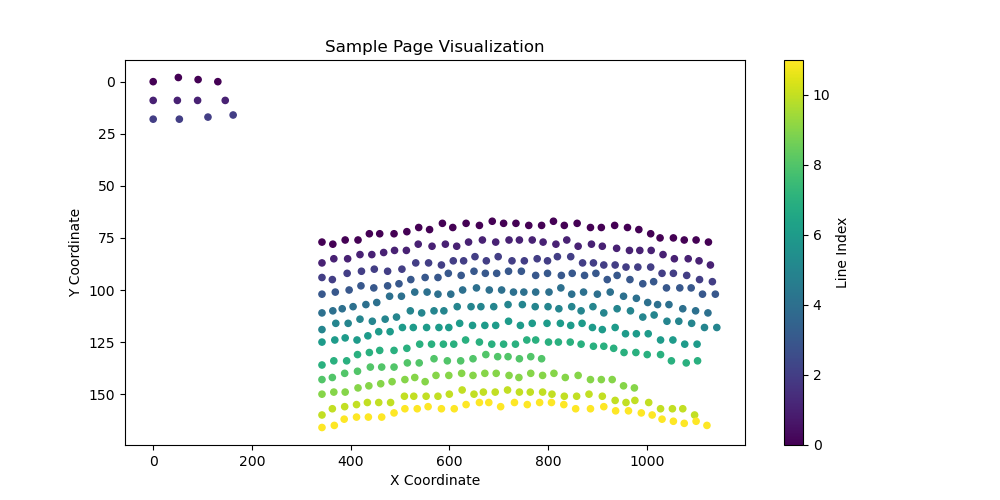
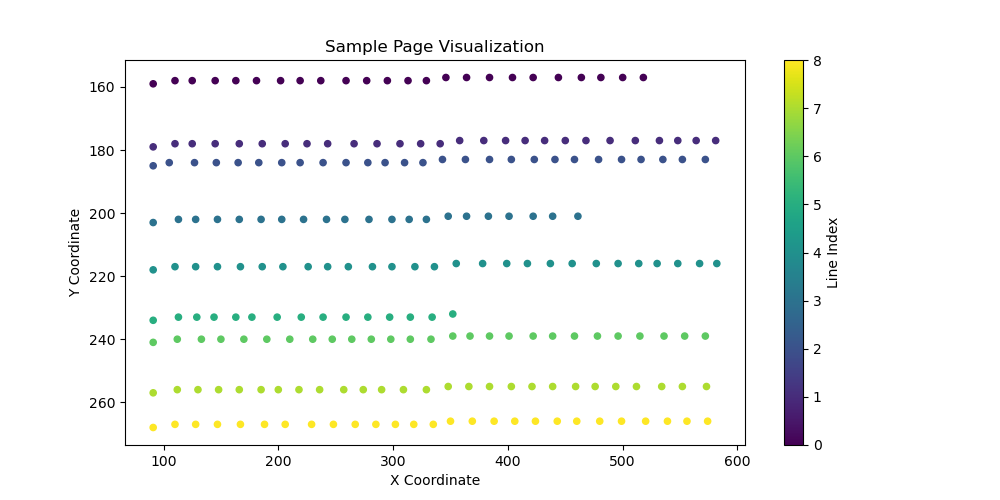
new data generation, deluanay divided by 10

diff --git a/generate_data_1.py b/generate_data_1.py
@@ -7,17 +7,17 @@ from dataclasses import dataclass
 from typing import List, Tuple, Optional
 from concurrent.futures import ProcessPoolExecutor
 
-MAX_CLASSES = 15
+MAX_CLASSES = 15  # a text block can have max 15 lines
 MAX_BLOCKS = 2
 
 LINE_SHORT_PROBABILITY= 0.3
 CHARACTER_SPACING_VARIANCE = 0.1
 
-CHAR_Y_VARIANCE = 1 #Character level
-LINE_Y_VAR = 1 #Line level - greater means less variance
-curve_modes = ['monotonic_up', 'monotonic_down', 'arch_up', 'arch_down','no_arch']
+CHAR_Y_VARIANCE = 0.1 #Character level
+LINE_Y_VAR = 5 #Line level - greater means less variance
 
-MAX_CURVE = 20
+curve_modes = ['monotonic_up', 'monotonic_down', 'arch_up', 'arch_down','no_arch']
+MAX_CURVE = 15
 
 @dataclass
 class Point:
@@ -38,31 +38,27 @@ class Line:
         self.curve_mode = curve_mode
         
     def generate_points(self) -> List[Point]:
-        """Generate character points along the line with a curve.
+        """Generate character points along the line with a curve, optimized for speed.
 
-        The full curve is generated using the original character count.
-        First, the full line is aligned (left, center, or right) using its full width.
-        Then, if the line is to be cut short, a subset of the aligned points is selected
-        based on the desired alignment:
-        - Left alignment: keep the first N points.
-        - Right alignment: keep the last N points.
-        - Center alignment: keep N points centered in the full line.
+        The full curve is generated using the original char_count, then aligned,
+        and finally truncated (by slicing) depending on the alignment (left, center, right).
         """
         # Save the original full character count.
         full_chars_count = self.chars_count
 
-        # Generate randomized spacings for the full line.
+        # --- Generate x positions ---
+        # Create randomized spacings (vectorized) and compute cumulative x offsets.
         spacings = np.maximum(
             1,
             (self.base_spacing +
             np.random.normal(0, self.base_spacing * CHARACTER_SPACING_VARIANCE, full_chars_count - 1)
             ).astype(int)
         )
-        # Compute cumulative x-offsets and positions.
         x_offsets = np.concatenate(([0], np.cumsum(spacings)))
         x_positions = self.start_x + x_offsets
 
-        # Set the start and end angles based on the desired curve mode.
+        # --- Compute the sine-based y positions ---
+        # Determine the start and end angles based on the desired curve mode.
         if self.curve_mode == 'monotonic_up':
             start_angle, end_angle = -math.pi / 6, math.pi / 6
         elif self.curve_mode == 'monotonic_down':
@@ -74,55 +70,50 @@ class Line:
         else:
             start_angle, end_angle = -math.pi / 6, math.pi / 6
 
-        # Generate angles for the full line.
+        # Generate angles for the full line (vectorized).
         angles = np.linspace(start_angle, end_angle, full_chars_count)
-
-        # Compute y offsets from the sine of these angles.
+        # Compute y offsets using the sine function.
         y_offsets = np.sin(angles) * self.curve_scale
         y_positions = self.start_y + y_offsets
 
-        # Combine x and y positions into full_points.
-        full_points = [
-            Point(x, int(y + random.randint(-CHAR_Y_VARIANCE, CHAR_Y_VARIANCE)))
-            for x, y in zip(x_positions, y_positions)
-        ]
+        # --- Add vertical randomness in a vectorized manner ---
+        # Note: np.random.randint's high is exclusive, so add 1 to include CHAR_Y_VARIANCE.
+        noise = np.random.randint(-CHAR_Y_VARIANCE, CHAR_Y_VARIANCE + 1, size=full_chars_count)
+        y_positions = y_positions + noise
 
-        # Compute the full line width.
-        full_line_width = full_points[-1].x - full_points[0].x
-
-        # --- Apply alignment offset to the full line ---
-        # (This uses the full line's width so that the curve shape is consistent.)
-        aligned_points = full_points[:]  # copy the full list
+        # --- Compute alignment offset using the full line width ---
+        full_line_width = x_positions[-1] - x_positions[0]
         if self.alignment == 'center':
             offset = (self.width - full_line_width) // 2
-            for p in aligned_points:
-                p.x += offset
         elif self.alignment == 'right':
             offset = self.width - full_line_width
-            for p in aligned_points:
-                p.x += offset
-        # For left alignment, no offset is needed.
-
-        # --- Now possibly truncate the line ---
-        if random.random() < LINE_SHORT_PROBABILITY:
-            # Determine a new count based on the original full_chars_count (with a minimum number).
-            new_count = int(2 + full_chars_count * random.random())
-            if self.alignment == 'right':
-                # For right alignment, keep the last new_count points.
-                points = aligned_points[-new_count:]
-            elif self.alignment == 'center':
-                # For center alignment, select new_count points from the middle.
-                start_index = (full_chars_count - new_count) // 2
-                points = aligned_points[start_index:start_index + new_count]
-            else:
-                # For left alignment (or default), keep the first new_count points.
-                points = aligned_points[:new_count]
         else:
-            points = aligned_points
+            offset = 0
 
+        # Apply the offset to the entire x_positions array.
+        x_positions = x_positions + offset
+
+        # --- Possibly truncate the line ---
+        # Use slicing on the NumPy arrays based on the alignment.
+        if random.random() < LINE_SHORT_PROBABILITY:
+            new_count = int(2 + full_chars_count * random.random())  # enforce a minimum number of points
+            if self.alignment == 'right':
+                # Keep the last new_count points.
+                x_positions = x_positions[-new_count:]
+                y_positions = y_positions[-new_count:]
+            elif self.alignment == 'center':
+                start_index = (full_chars_count - new_count) // 2
+                x_positions = x_positions[start_index:start_index + new_count]
+                y_positions = y_positions[start_index:start_index + new_count]
+            else:  # left alignment (default)
+                x_positions = x_positions[:new_count]
+                y_positions = y_positions[:new_count]
+
+        # --- Convert the NumPy arrays into a list of Point objects ---
+        points = [Point(int(x), int(y)) for x, y in zip(x_positions, y_positions)]
         self.points = points
         return points
-
+    
 class TextBlock:
     def __init__(self, x: int, y: int, width: int, height: int, 
                  lines_count: int, chars_per_line: int, curve_mode: str, curve_scale: str,
@@ -318,6 +309,6 @@ def visualize_sample_page():
 
 if __name__ == '__main__':
     # Generate 10,000 pages in parallel.
-    visualize_sample_page()
-    #generate_dataset_parallel(100000)
+    #visualize_sample_page()
+    generate_dataset_parallel(300000)
     

diff --git a/angle_data_loading.py b/angle_data_loading.py
@@ -130,7 +130,7 @@ class PointDataset(Dataset):
         except Exception as e:
             # If Delaunay triangulation fails, simply return zeros.
             degrees = np.zeros(n_points, dtype=np.float32)
-        return degrees.reshape(n_points, 1)
+        return degrees.reshape(n_points, 1)/10
 
     def _add_anchor_features(self, points: np.ndarray) -> np.ndarray:
         """
